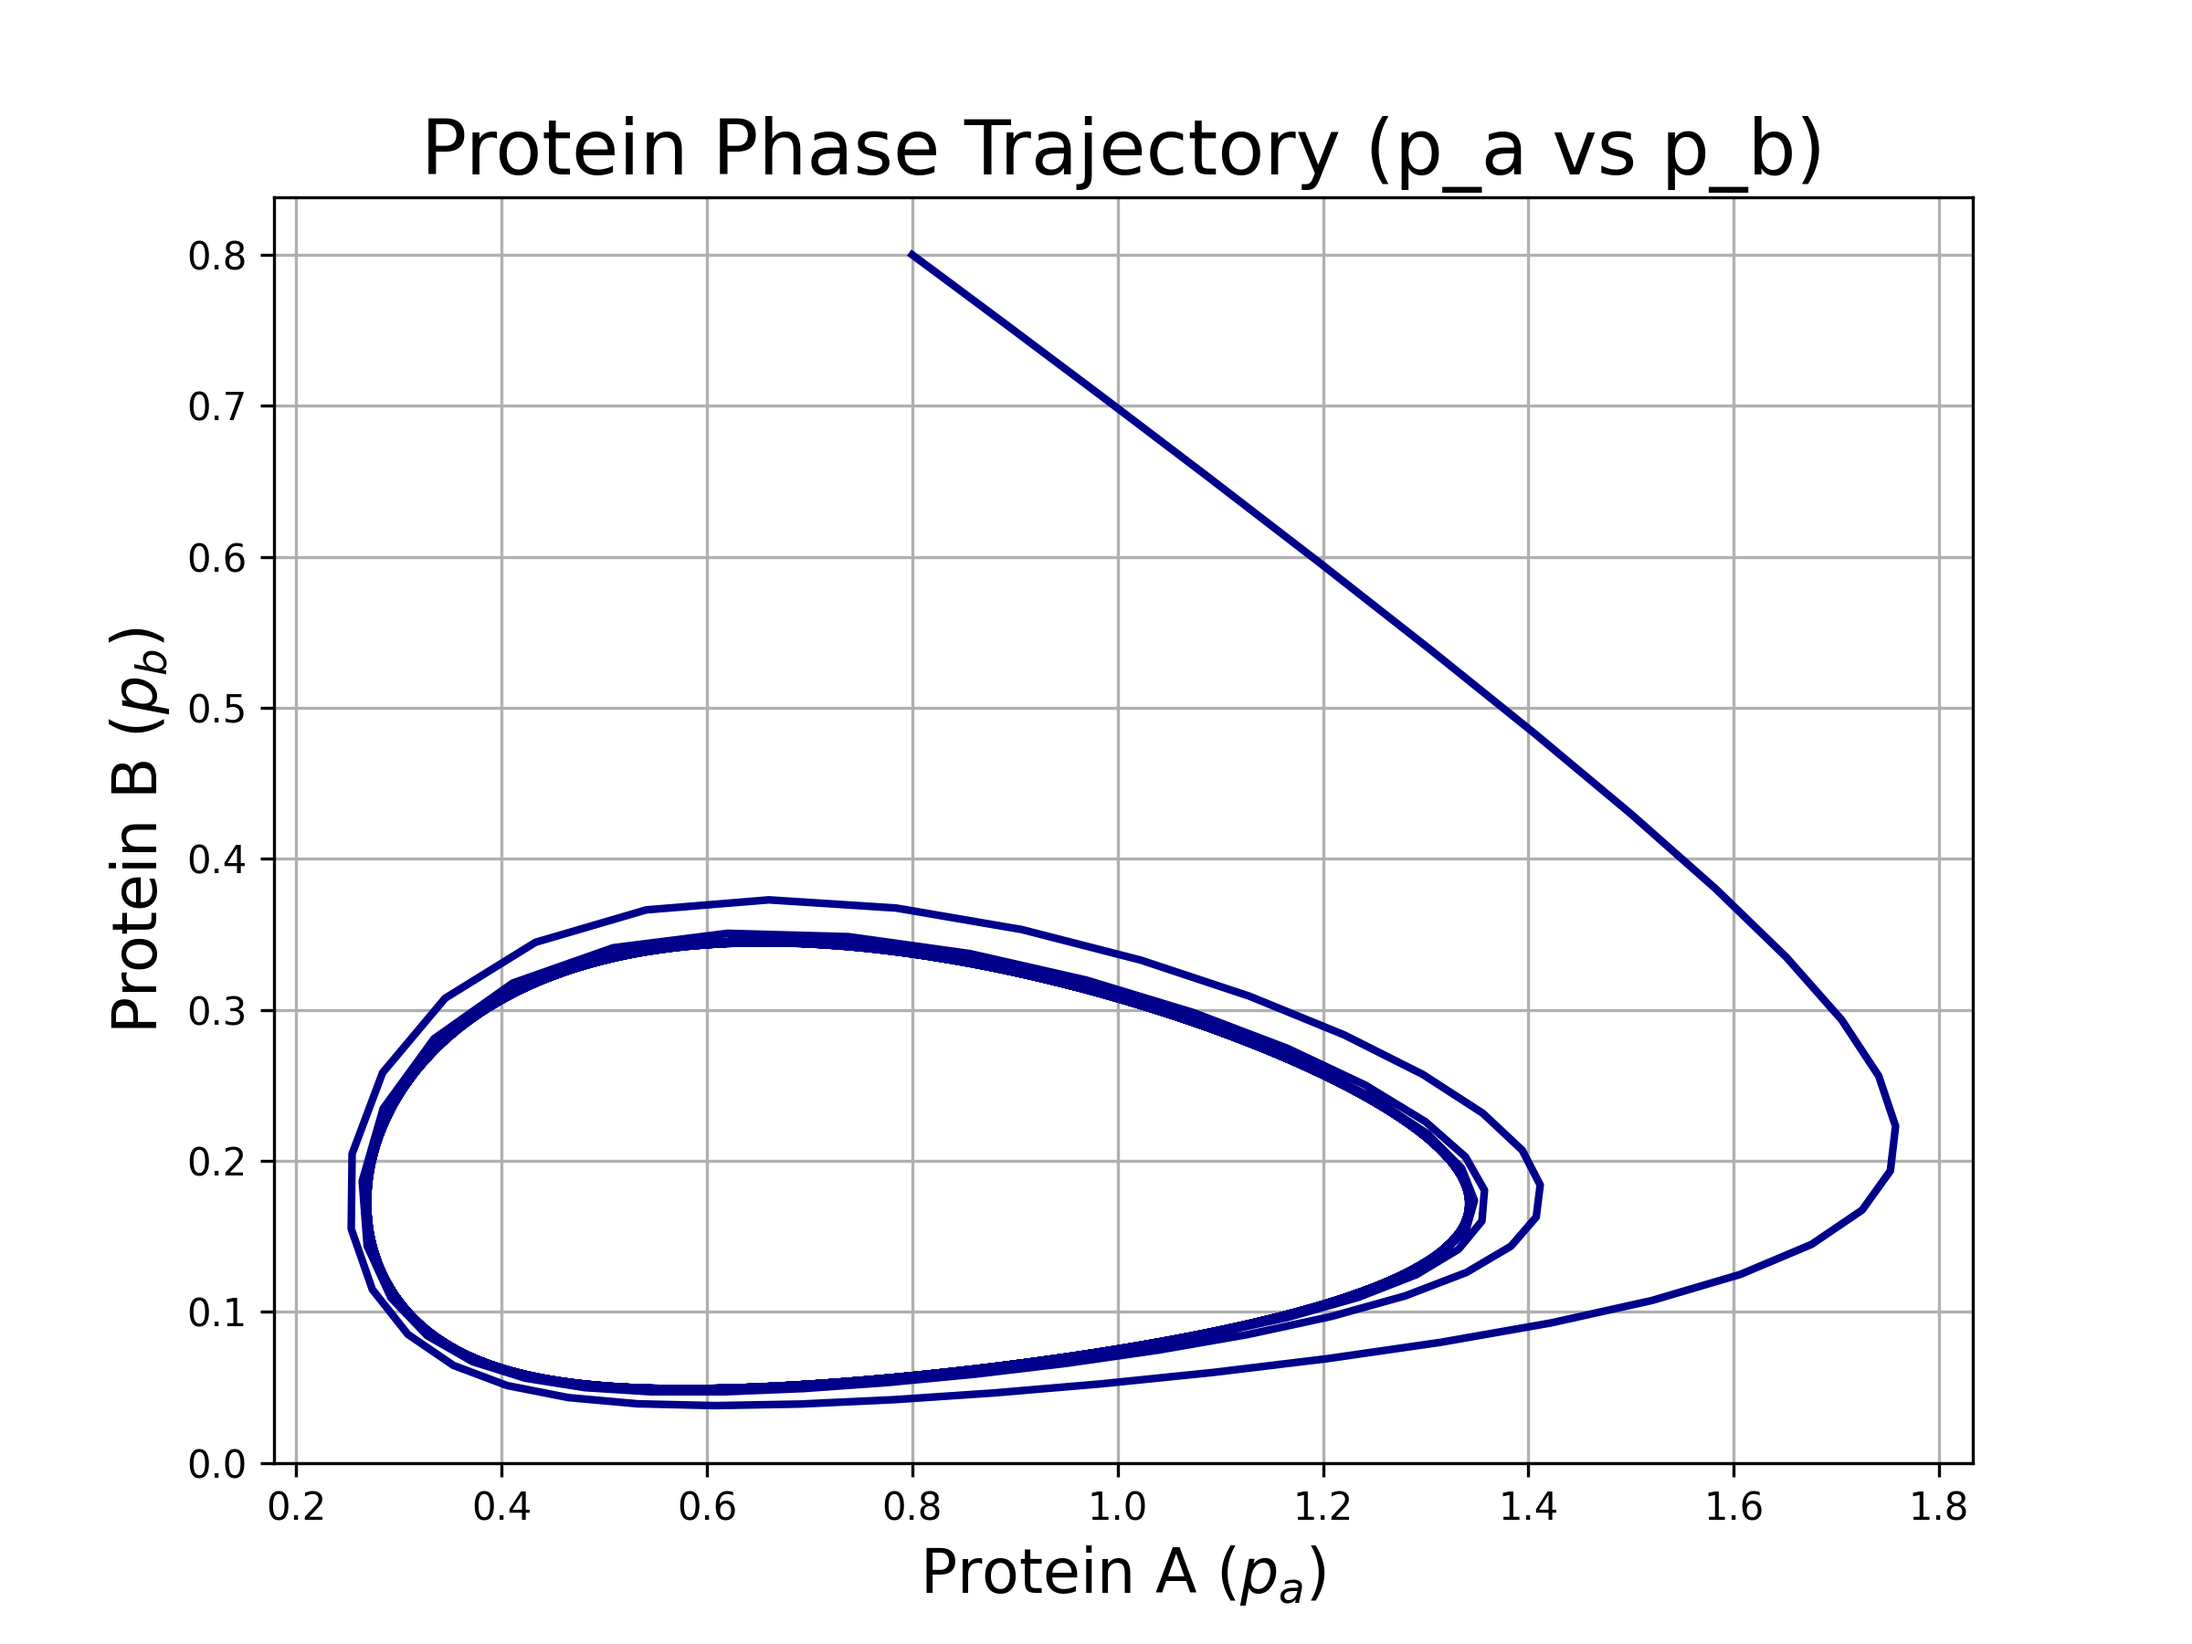
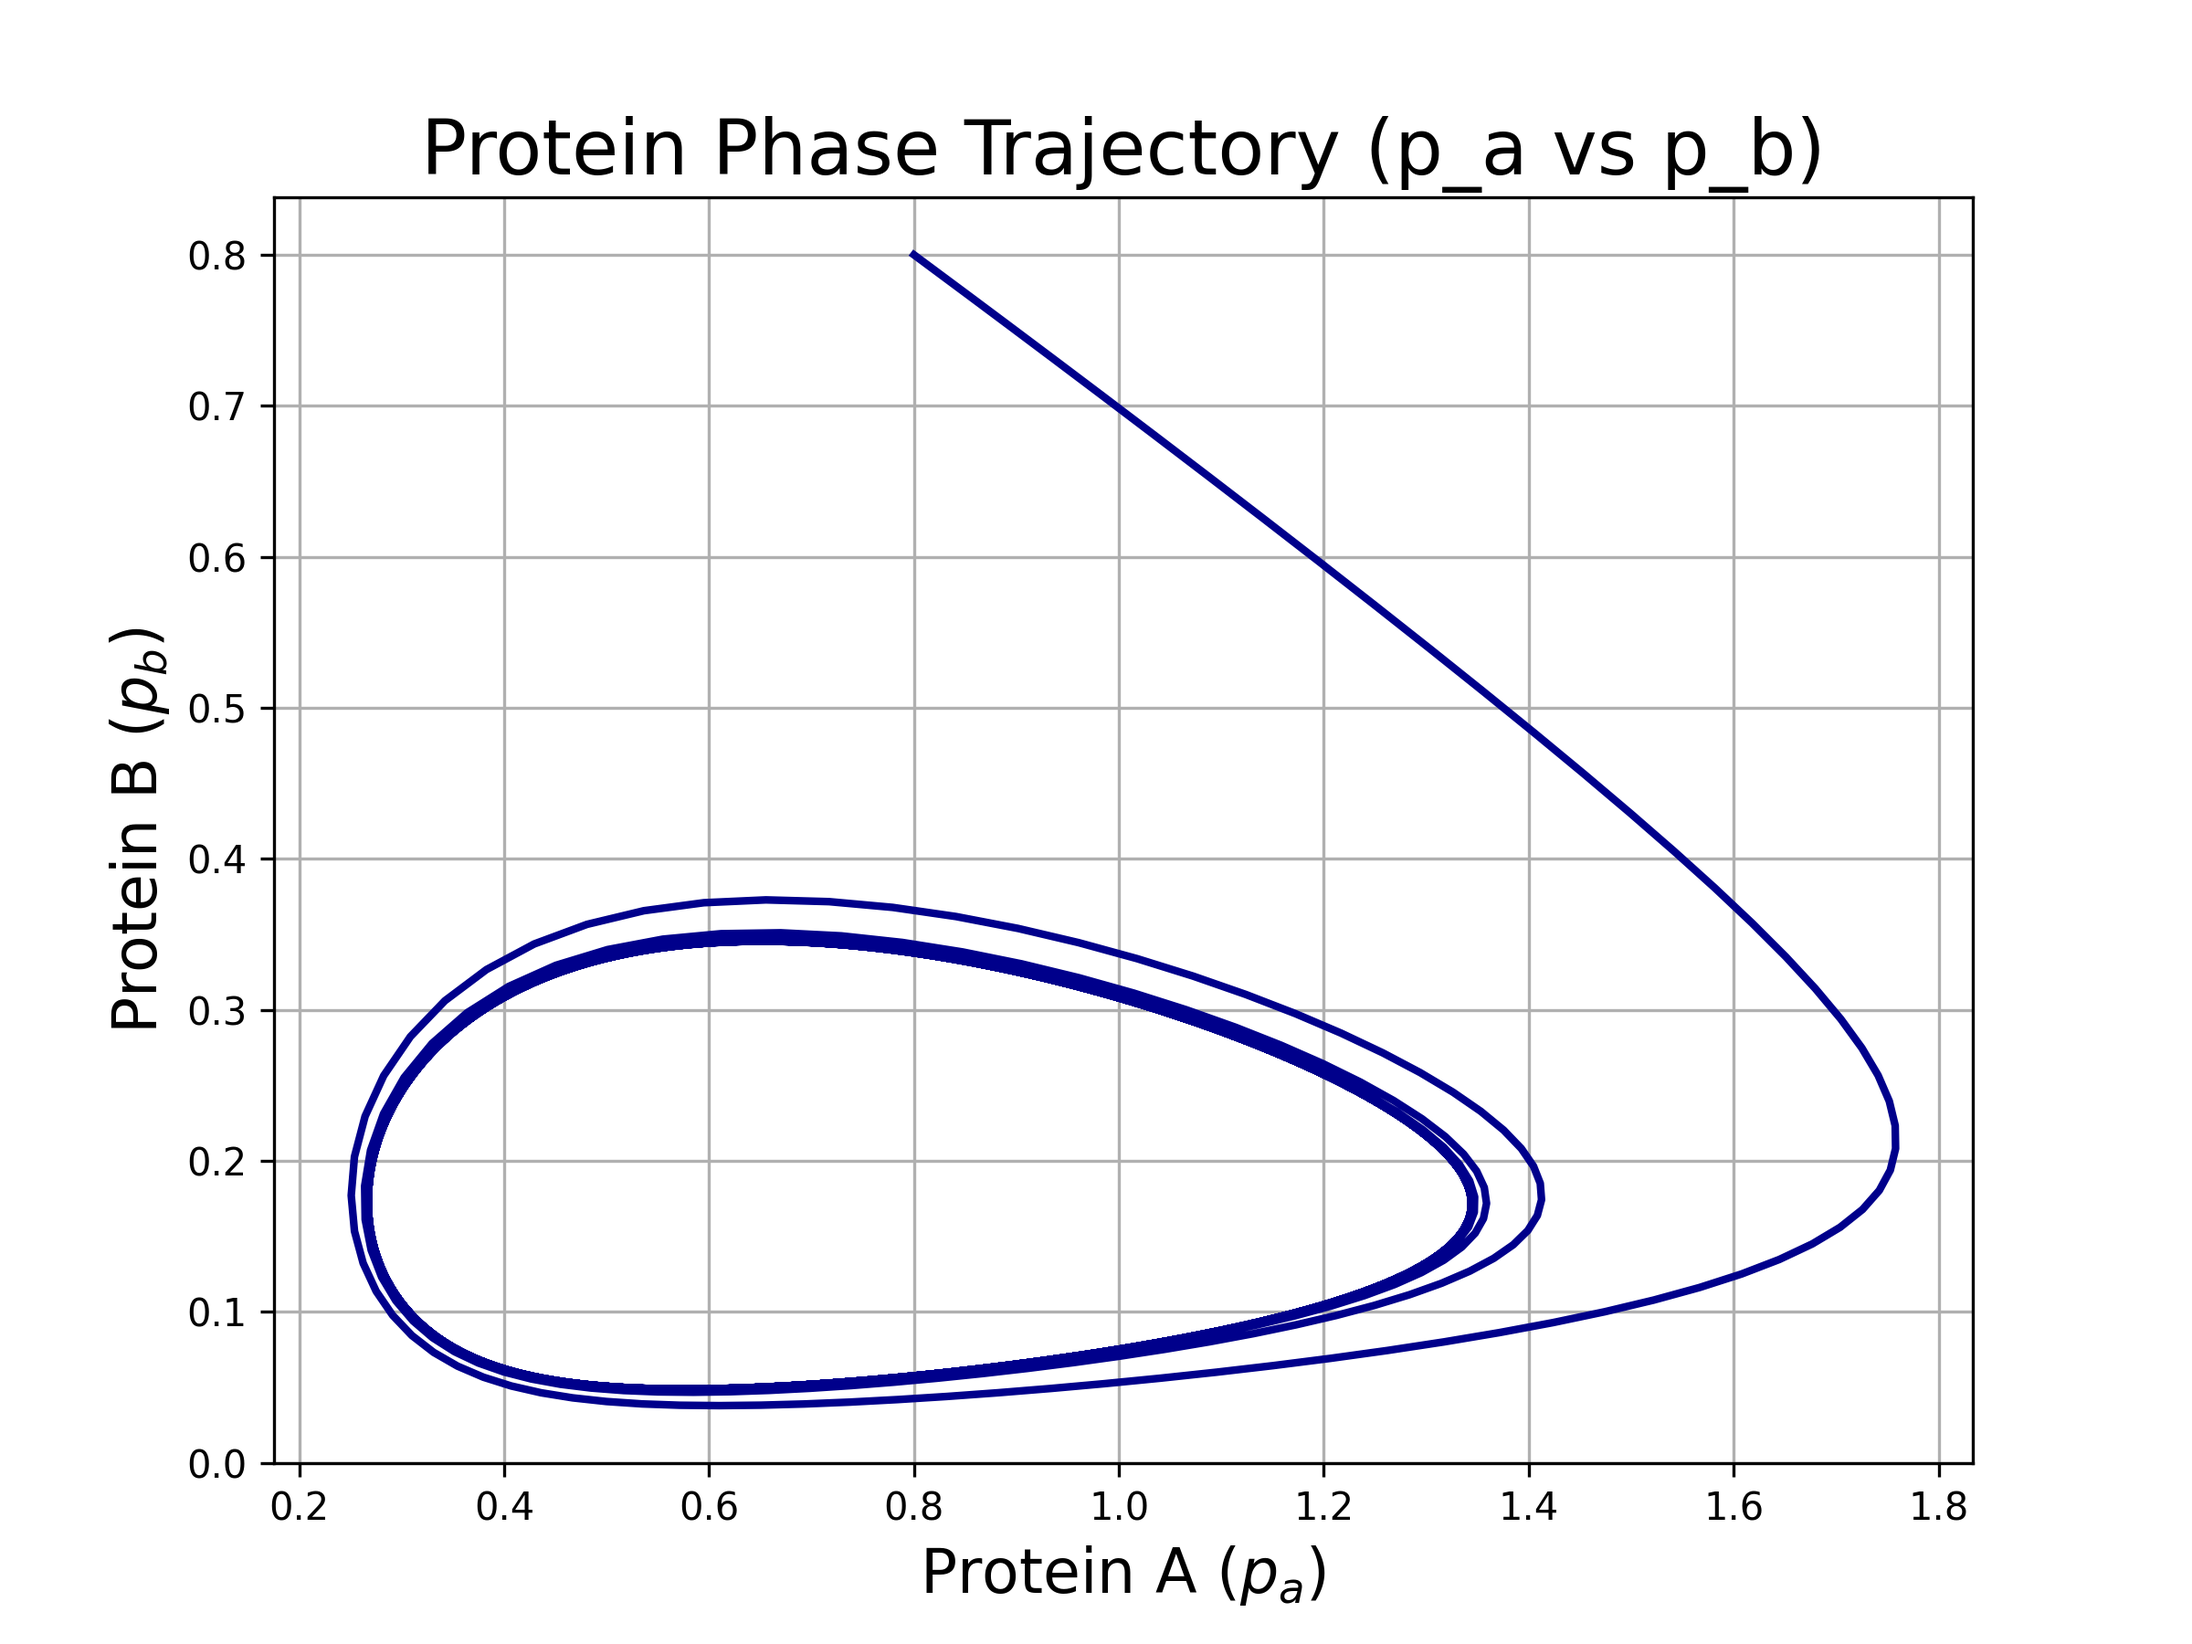
fix stochastic model

diff --git a/A2/assignment2.py b/A2/assignment2.py
@@ -147,8 +147,8 @@ def gene_regulation_sde(y, t, dt,
     promotion_splicing_a = (p_b**n_b) / (theta_b**n_b + p_b**n_b)  # Promotion of splicing of mRNA A by protein B
     
     # Transcription 
-    du_a_dt = (alpha_a - beta_a * u_a) + noise_terms(sigma_1a)  # Transcription rate of pre-mRNA A
-    du_b_dt = (alpha_b - beta_b * u_b) + noise_terms(sigma_1b)  # Transcription rate of pre-mRNA B
+    du_a_dt = (alpha_a - beta_a * u_a * promotion_splicing_a) + noise_terms(sigma_1a)  # Transcription rate of pre-mRNA A
+    du_b_dt = (alpha_b - beta_b * u_b * inhibition_splicing_b) + noise_terms(sigma_1b)  # Transcription rate of pre-mRNA B
     
     # Splicing 
     ds_a_dt = (beta_a * u_a * promotion_splicing_a - gamma_a * s_a) + noise_terms(sigma_2a)  # Splicing of mRNA A
@@ -177,9 +177,41 @@ def solve_gene_regulation_sde(model_type, y0, t, params):
 
     return sol
 
+def plot_pre_mRNA_time_evolution_sde(t, num_simulations, initial_conditions, sde_params, save_path=None):
+    """
+    Plot the time evolution of pre-mRNA concentrations (u_A and u_B) for Route II.
+    Individual simulations are plotted as semi-transparent lines.
+    """
+
+    solutions = []
+    for _ in range(num_simulations):
+        sol = solve_gene_regulation_sde(gene_regulation_sde, initial_conditions, t, sde_params)
+        solutions.append(sol)
+
+    solutions = np.array(solutions)
+
+    u_a_vals, u_b_vals = solutions[:, :, 0], solutions[:, :, 1]
+
+    plt.figure(figsize=(10, 6))
+    for i in range(num_simulations):
+        plt.plot(t, u_a_vals[i], color='blue', alpha=0.5, lw=0.8)
+        plt.plot(t, u_b_vals[i], color='red', alpha=0.5, lw=0.8)
+    plt.xlabel('Time (s)', fontsize=16)
+    plt.ylabel('Concentration', fontsize=16)
+    plt.title(r'mRNA Time Evolution($u_A$ and $u_B$)', fontsize=20)
+    plt.legend([r'$u_A$', r'$u_B$'], fontsize=14)
+    plt.grid()
+
+    if save_path:
+        plt.savefig(save_path, dpi=300)
+        plt.close()
+    else:
+        plt.show()
+
+
 def plot_mRNA_time_evolution_sde(t, num_simulations, initial_conditions, sde_params, save_path=None):
     """
-    Plot the time evolution of mRNA concentrations for A and B (Route II).
+    Plot the time evolution of mRNA concentrations (s_A and s_B) for Route II.
     Individual simulations are plotted as semi-transparent lines.
     """
     # Run simulations and collect results
@@ -190,33 +222,19 @@ def plot_mRNA_time_evolution_sde(t, num_simulations, initial_conditions, sde_par
 
     solutions = np.array(solutions)
 
-    # Extract individual trajectories
-    u_a_vals, u_b_vals = solutions[:, :, 0], solutions[:, :, 1]
+    # Extract mRNA trajectories
     s_a_vals, s_b_vals = solutions[:, :, 2], solutions[:, :, 3]
 
-    fig, axs = plt.subplots(2, 1, figsize=(10, 12))
-
-    # Plot transcription trajectories (u_A and u_B)
+    plt.figure(figsize=(10, 6))
     for i in range(num_simulations):
-        axs[0].plot(t, u_a_vals[i], color='blue', alpha=0.5, lw=0.8)
-        axs[0].plot(t, u_b_vals[i], color='red', alpha=0.5, lw=0.8)
-    axs[0].set_xlabel('Time (s)', fontsize=16)
-    axs[0].set_ylabel('Concentration', fontsize=16)
-    axs[0].set_title('Stochastic Gene Regulation: Transcription (u_A and u_B)', fontsize=20)
-    axs[0].legend(['u_A', 'u_B'], fontsize=14)
-    axs[0].grid()
+        plt.plot(t, s_a_vals[i], color='green', alpha=0.5, lw=0.8)
+        plt.plot(t, s_b_vals[i], color='orange', alpha=0.5, lw=0.8)
+    plt.xlabel('Time (s)', fontsize=16)
+    plt.ylabel('Concentration', fontsize=16)
+    plt.title(r'mRNA Time Evolution($s_A$ and $s_B$)', fontsize=20)
+    plt.legend([r'$s_A$', r'$s_B$'], fontsize=14)
+    plt.grid()
 
-    # Plot splicing trajectories (s_A and s_B)
-    for i in range(num_simulations):
-        axs[1].plot(t, s_a_vals[i], color='green', alpha=0.5, lw=0.8)
-        axs[1].plot(t, s_b_vals[i], color='orange', alpha=0.5, lw=0.8)
-    axs[1].set_xlabel('Time (s)', fontsize=16)
-    axs[1].set_ylabel('Concentration', fontsize=16)
-    axs[1].set_title('Stochastic Gene Regulation: Splicing (s_A and s_B)', fontsize=20)
-    axs[1].legend(['s_A', 's_B'], fontsize=14)
-    axs[1].grid()
-
-    plt.tight_layout()
     if save_path:
         plt.savefig(save_path, dpi=300)
         plt.close()
@@ -244,7 +262,7 @@ def plot_phase_plane_sde(sde_solutions, num_simulations, t, save_path):
 
     plt.xlabel(r'Protein A ($p_a$)', fontsize=16)
     plt.ylabel(r'Protein B ($p_b$)', fontsize=16)
-    plt.title('Stochastic Gene Regulation: Phase Trajectory (p_a vs p_b)', fontsize=20)
+    plt.title(r'Phase Trajectory ($p_a$ vs $p_b$)', fontsize=20)
     plt.grid(True)
     plt.legend(fontsize=14)
 
@@ -261,19 +279,26 @@ def main():
     results_dir = 'results'
     if not os.path.exists(results_dir):
         os.makedirs(results_dir)
+
     # Viterbi setup
     states = ['Exon', 'Intron']
     observations = ['A', 'G', 'C', 'G', 'C']
     start_probs = {'Exon': 0.5, 'Intron': 0.5}
-    trans_probs = {'Exon': {'Exon': 0.9, 'Intron': 0.1}, 'Intron': {'Exon': 0.2, 'Intron': 0.8}}
-    emit_probs = {'Exon': {'A': 0.25, 'U': 0.25, 'G': 0.25, 'C': 0.25}, 'Intron': {'A': 0.4, 'U': 0.4, 'G': 0.05, 'C': 0.15}}
+    trans_probs = {
+        'Exon': {'Exon': 0.9, 'Intron': 0.1}, 
+        'Intron': {'Exon': 0.2, 'Intron': 0.8}
+        }
+    emit_probs = {
+        'Exon': {'A': 0.25, 'U': 0.25, 'G': 0.25, 'C': 0.25}, 
+        'Intron': {'A': 0.4, 'U': 0.4, 'G': 0.05, 'C': 0.15}
+        }
 
     prob, path = viterbi_algorithm(observations, states, start_probs, trans_probs, emit_probs)
     print("Most probable path:", path)
     print("Probability of the path:", prob)
 
     # Deterministic model
-    t = np.linspace(0, 100, 500)
+    t = np.linspace(0, 100, 1000)
     initial_det = [0.8, 0.8, 0.8, 0.8]
     det_params = {
         'm_a': 2.35, 'm_b': 2.35,
@@ -285,7 +310,12 @@ def main():
     }
 
     sol_det = solve_gene_regulation_det(gene_regulation_det, initial_det, t, det_params)
-    plot_mRNA_time_evolution_det(t, sol_det, save_path=os.path.join(results_dir, "route1_mRNA_dynamics.png"))
+
+    plot_mRNA_time_evolution_det(
+        t, 
+        sol_det, 
+        save_path=os.path.join(results_dir, "route1_mRNA_dynamics.png")
+        )
 
     plot_phase_plane_det(
         model_type=gene_regulation_det,
@@ -296,6 +326,7 @@ def main():
     )
 
     # Stochastic model setup
+    t = np.linspace(0, 100, 1000)
     initial_sde = [0.8, 0.8, 0.8, 0.8, 0.8, 0.8]
     sde_params = {
         'a_a': 1, 'a_b': 0.25,
@@ -320,6 +351,14 @@ def main():
     for _ in range(num_simulations):
         sol = solve_gene_regulation_sde(gene_regulation_sde, initial_sde, t, sde_params)
         sde_solutions.append(sol)
+
+    plot_pre_mRNA_time_evolution_sde(
+        t,
+        num_simulations,
+        initial_sde,
+        sde_params,
+        save_path=os.path.join(results_dir, "route2_pre_mRNA_dynamics.png")
+    )
 
     plot_mRNA_time_evolution_sde(
         t,
